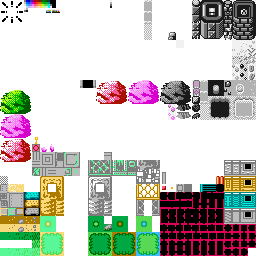
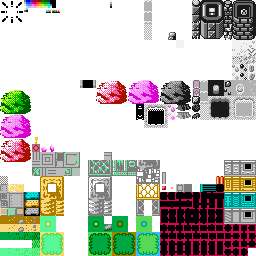
Animated Water+more flowers+ripple start water void think

Changed region(s): [[0.5312, 0.375, 0.6562, 0.5]]

diff --git a/index.html b/index.html
@@ -568,6 +568,9 @@
                                         player.exp = player.exp+this.exp_reward;
                                         player.curse = player.curse + this.cursePenalty;
                                         remMobs--;
+                                        map[mapLoc.y][mapLoc.x].contents.push($.extend(true, {}, con_drop));
+                                        map[mapLoc.y][mapLoc.x].contents[map[mapLoc.y][mapLoc.x].contents.length-1].loc.x = this.loc.x;
+                                        map[mapLoc.y][mapLoc.x].contents[map[mapLoc.y][mapLoc.x].contents.length-1].loc.y = this.loc.y;
                                         this.alive = false;
                                     }
                                     if (this.alive == true) {
@@ -683,7 +686,7 @@
                                     }
                                 }
         };
-        var con_drop = {type: 'drop', sprite: [583], lov: {x:-1,y:-1}, collected: false,
+        var con_drop = {type: 'drop', sprite: [583], loc: {x:-1,y:-1}, collected: false,
                         action: function() {
                             if (player.x <= (this.loc.x)+4 && player.x > (this.loc.x)-4 && 
                                 player.y <= (this.loc.y)+4 && player.y > (this.loc.y)-4 &&
@@ -693,7 +696,9 @@
                             }
                         },
                         draw: function() {
-                            drawSprite(this.sprite[0], this.loc.x, this.loc.y);
+                            if (this.collected == false) {
+                                drawSprite(this.sprite[0], this.loc.x, this.loc.y);
+                            }
                         }
                 
         };
@@ -1005,7 +1010,6 @@
             }
             roomMap[2].push(row);
         }
-        console.log(x+','+y+'; '+JSON.stringify(doorData));
         return{type:'room', mini: mini, map:roomMap, config:doorData, contents:[], obs:-1, discovered:false, wallStyle:-1};
 	}
 	
@@ -1206,8 +1210,6 @@
 			}
 		}
 		newmap.push(overlap);
-        console.log(config_name);
-        console.log(newmap);
 		return newmap;
     }
     
@@ -1244,7 +1246,7 @@
             } else {
                 rand = Math.floor(Math.random()*posFloors.length);
             }
-            seed+=rand;
+            seed+=rand+'f';
             floorPal.push(posFloors[rand]);
             posFloors.splice(rand, 1);
         }
@@ -1254,7 +1256,7 @@
         } else {
             rand = Math.floor(Math.random()*3);
         }
-        seed+=rand;
+        seed+=rand+'f';
         if (rand == 0) {
             floorPal.push(286);
         }
@@ -1346,7 +1348,6 @@
                     matchConfig.push(map[emptList[j].y][emptList[j].x+1].config[1]);
                 }
 
-                console.log('To match: '+JSON.stringify(matchConfig));
                 //build list of applicable rooms
                 var appList = [];
                 for (k=0; k<rooms.length; k++) {
@@ -1365,7 +1366,7 @@
                 } else {
                     rand = Math.floor(Math.random()*appList.length);
                 }
-                seed+=rand;
+                seed+=rand+'d';
                 map[emptList[j].y][emptList[j].x] = JSON.parse(JSON.stringify(appList[rand]));
                 numRooms++;
                 
@@ -1382,7 +1383,7 @@
                         } else {
                             floorRand = Math.floor(Math.random()*8);
                         }
-                        seed+=floorRand; 
+                        seed+=floorRand+'f'; 
                         
                         if (floorRand == 0) {
                             floorRow.push(floorPal[3]);
@@ -1459,7 +1460,6 @@
                     capConfig.push(map[emptList[j].y][emptList[j].x+1].config[1]);
                 }
                 
-                console.log('To match: '+JSON.stringify(capConfig));
                 //build list of applicable rooms
                 var capList = [];
                 for (k=0; k<rooms.length; k++) {
@@ -1470,7 +1470,6 @@
                         capList.push(JSON.parse(JSON.stringify(rooms[k])));
                     }
                 }
-                console.log(capList.length+' applicable rooms');
                 //pick a room
                 if (gen) {
                     rand = parseInt(gen.charAt(genIndex));
@@ -1478,7 +1477,7 @@
                 } else {
                     rand = Math.floor(Math.random()*capList.length);
                 }
-                seed+=rand;
+                seed+=rand+'d';
                 map[emptList[j].y][emptList[j].x] = JSON.parse(JSON.stringify(capList[rand]));
                 numRooms++;
                 
@@ -1493,7 +1492,7 @@
                         } else {
                             floorRand = Math.floor(Math.random()*8);
                         }
-                        seed+=floorRand; 
+                        seed+=floorRand+'f'; 
                         
                         if (floorRand == 0) {
                             floorRow.push(floorPal[3]);
@@ -1529,7 +1528,7 @@
         } else {
             rand = Math.floor(Math.random()*rList.length);
         }
-        seed+=rand;
+        seed+=rand+'g';
 
         map[rList[rand].y][rList[rand].x].contents.push($.extend({}, con_goal));
         map[rList[rand].y][rList[rand].x].obs = buildConfig('config_goal');
@@ -1548,7 +1547,7 @@
 			} else {
 				rand = Math.floor(Math.random()*rList.length);
 			}
-			seed+=rand;
+			seed+=rand+'k';
 			map[rList[rand].y][rList[rand].x].contents.push($.extend(true, {}, con_key));
 			rList.splice(rand,1);
 			
@@ -1563,7 +1562,7 @@
 					} else {
 						rand = Math.floor(Math.random()*2);
 					}
-					seed+=rand;
+					seed+=rand+'m';
 					if (rand == 0) {
 						if (gen) {
 							rand = gen.charAt(genIndex);
@@ -1571,7 +1570,7 @@
 						} else {
 							rand = Math.floor(Math.random()*mobs.length);
 						}
-						seed+=rand;
+						seed+=rand+'m';
 						map[i][j].contents.push($.extend(true, {}, mobs[rand]));
                         remMobs++;
 					}
@@ -1589,7 +1588,7 @@
                         } else {
                             rand = Math.floor(Math.random()*2);
                         }
-                        seed+=rand;
+                        seed+=rand+'p';
                         if (rand == 0) {
                             if (gen) {
                                 rand = gen.charAt(genIndex);
@@ -1597,7 +1596,7 @@
                             } else {
                                 rand = Math.floor(Math.random()*augments.length);
                             }
-                            seed+=rand;
+                            seed+=rand+'p';
                             map[i][j].contents.push($.extend(true, {}, con_aug));
                             map[i][j].obs = buildConfig('config_item');
                             map[i][j].contents[map[i][j].contents.length-1].aug = rand;
@@ -1615,6 +1614,9 @@
         //assign obstacle configs
         for (i=0; i<map.length; i++) {
 			for (j=0; j<map[i].length; j++) {
+                if (i == mapLoc.y && j == mapLoc.x) {
+                    map[i][j].obs = buildConfig('config_start');
+                }
                 if (map[i][j] != 0 && map[i][j].obs == -1 && !(i == mapLoc.y && j == mapLoc.x)) {
                     if (gen) {
                         rand = gen.charAt(genIndex);
@@ -1622,7 +1624,7 @@
                     } else {
                         rand = Math.floor(Math.random()*17);
                     }
-                    seed+=rand;
+                    seed+=rand+'c';
                     
                     map[i][j].obs = buildConfig('config_'+rand);
                 }
@@ -1698,6 +1700,22 @@
         }
         if (sprite == 288 && blink == true) {
             sprite = 320;
+        }
+        if (sprite == 352 && blink == false) {
+            sprite = 384;
+        }
+        if (sprite == 438 && blink == false) {
+            sprite = 470;
+        }
+        if (sprite == 468 && blink == false && 
+            (player.x+4 > x && player.x+4 <= x+8) && 
+            (player.y+8 > y && player.y+8 <= y+8)){
+            sprite = 434;
+        }
+        if (sprite == 468 && blink == true && 
+            (player.x+4 > x && player.x+4 <= x+8) && 
+            (player.y+8 > y && player.y+8 <= y+8)){
+            sprite = 466;
         }
         
         sX = Math.floor((sprite-1)/(sheetWidth/8))*8;
